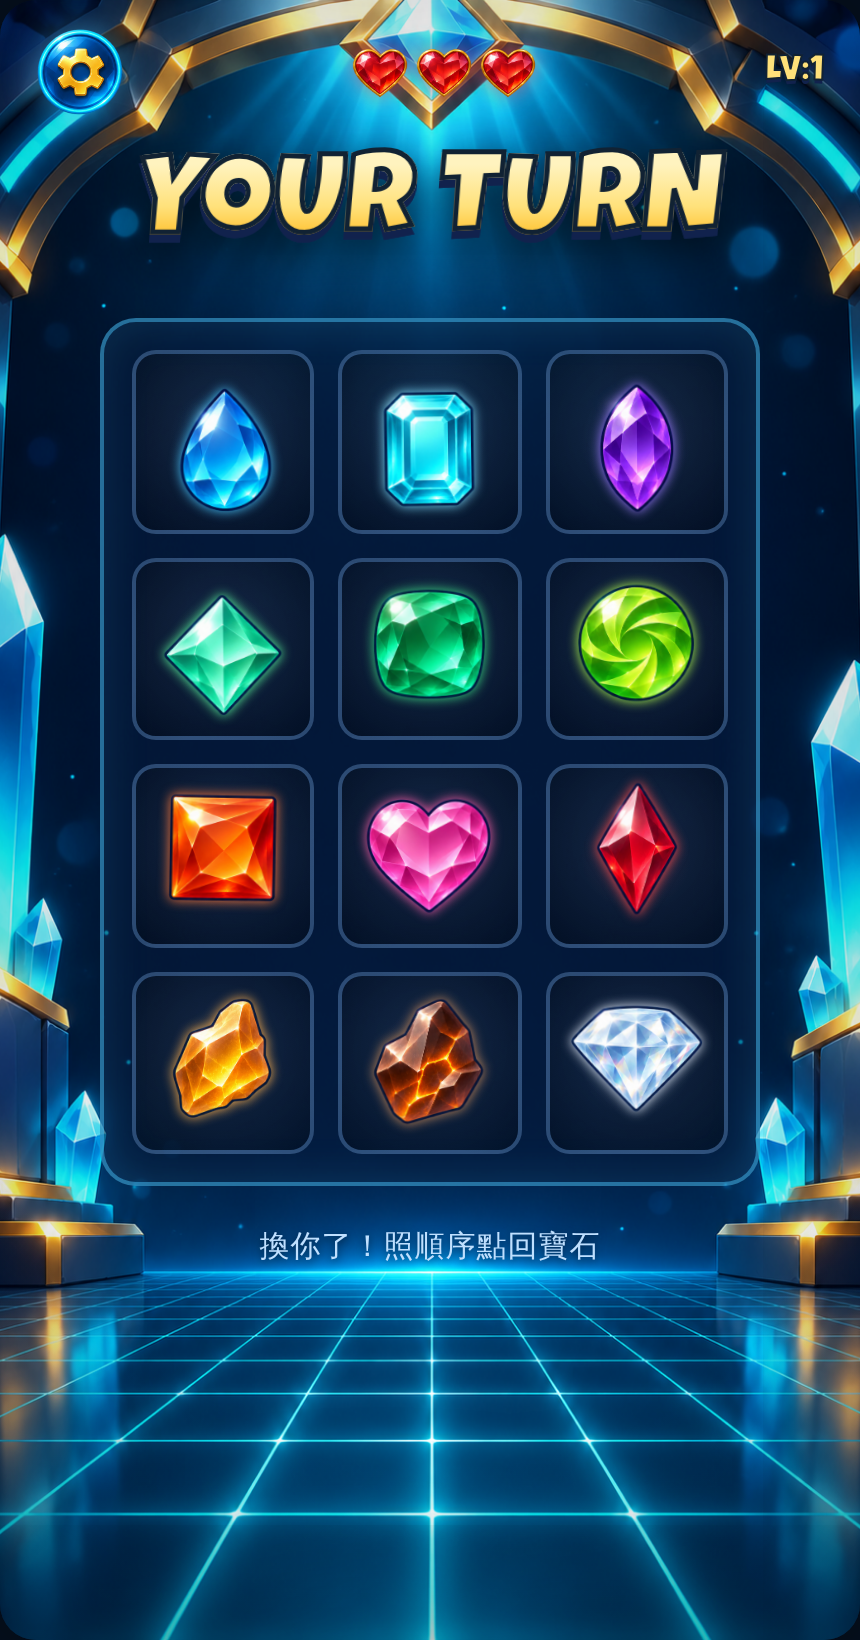
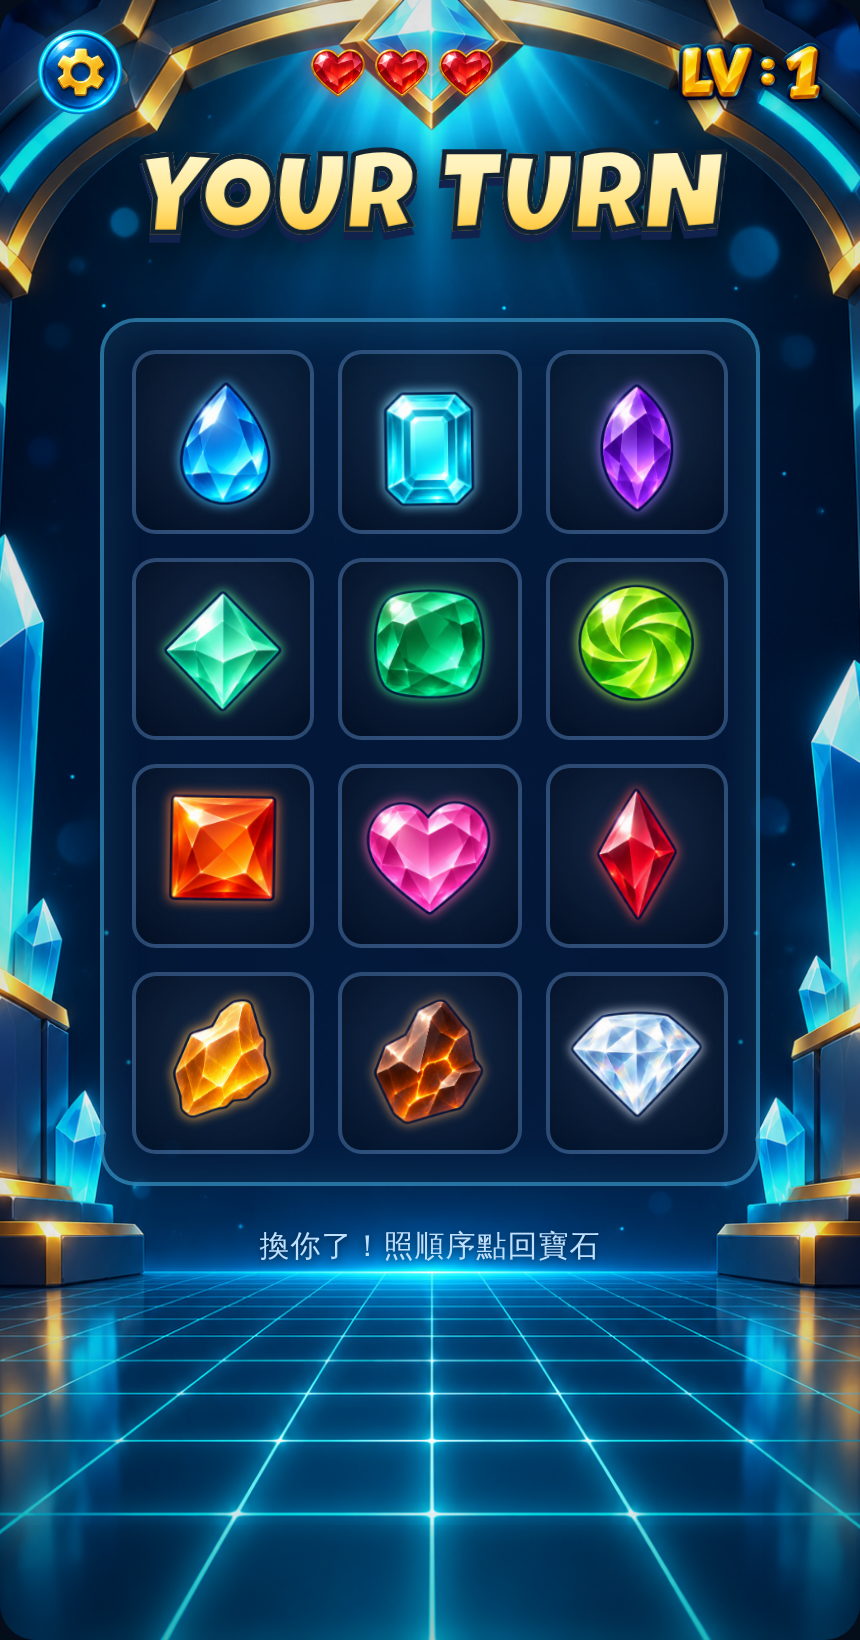
Wire LV counter to numbers_01 glyphs; add font to asset list
- Slice numbers_01 into digit/LV/colon PNGs; HUD LV now renders as
  gold number images instead of web font
- Add 字型 font_01 (A-Z / a-z / symbols) and cohesion principle to
  ASSETS.md and ASSETS_TEMPLATE.md

Claude-Session: https://claude.ai/code/session_01WnPXDfC2E1HsxAHMdYXNWW

diff --git a/01_memory_crash/js/game.js b/01_memory_crash/js/game.js
@@ -48,7 +48,13 @@
   const board       = $("#board");
   const hud         = $("#hud");
   const heartsWrap  = $("#hearts");
-  const levelNum    = $("#levelNum");
+  const levelTag    = $("#levelTag");
+  const NUMDIR = "assets/source/pic/numbers/";
+  function lvHTML(n) {
+    let h = `<img class="nimg" src="${NUMDIR}lv.png" alt="LV"><img class="nimg ncolon" src="${NUMDIR}colon.png" alt=":">`;
+    for (const d of String(n)) h += `<img class="nimg" src="${NUMDIR}n${d}.png" alt="${d}">`;
+    return h;
+  }
   const perfectBan  = $("#perfectBanner");
   const statusText  = $("#statusText");
   const modal       = $("#modal");
@@ -191,7 +197,7 @@
   }
 
   function nextLevel(fresh) {
-    levelNum.textContent = state.level;
+    levelTag.innerHTML = lvHTML(state.level);
     if (fresh) state.sequence = generateSequence();
     state.playerStep = 0;
     state.accepting = false;

diff --git a/01_memory_crash/css/style.css b/01_memory_crash/css/style.css
@@ -218,11 +218,11 @@ html, body {
 }
 
 .level-tag {
-  font-family: "Luckiest Guy", Impact, sans-serif;
-  font-size: 18px; color: var(--gold-1);
-  -webkit-text-stroke: 1px #123;
-  text-shadow: 0 2px 0 #11224d;
+  display: flex; align-items: center; gap: 1px; height: 30px;
+  filter: drop-shadow(0 2px 3px rgba(0,0,0,.5));
 }
+.level-tag .nimg { height: 100%; width: auto; display: block; }
+.level-tag .ncolon { height: 55%; align-self: center; margin: 0 1px; }
 
 /* ============================================================
    遊戲橫幅（READY / PERFECT / MISS）

diff --git a/01_memory_crash/index.html b/01_memory_crash/index.html
@@ -24,7 +24,7 @@
       <div class="hearts" id="hearts">
         <span class="heart">♥</span><span class="heart">♥</span><span class="heart">♥</span>
       </div>
-      <div class="level-tag">LV:<span id="levelNum">1</span></div>
+      <div class="level-tag" id="levelTag"></div>
     </header>
 
     <!-- ========== 標題畫面 ========== -->

diff --git a/01_memory_crash/assets/ASSETS.md b/01_memory_crash/assets/ASSETS.md
@@ -16,7 +16,8 @@ assets/source/
 │   ├── titles/      titles_01.png          # 主視覺文字（word-art）
 │   ├── ui/          ui_01.png
 │   ├── gems/        gems_01.png
-│   ├── numbers/     numbers_01.png
+│   ├── numbers/     numbers_01.png         # 數字 0–9 + LV + :
+│   ├── font/        font_01.png            # 字型 A–Z / a–z / 符號
 │   ├── fx/          fx_01.png
 │   └── howto/       howto_01.png           # 教學步驟圖示
 ├── music/           bgm_01.mp3 · bgm_02.mp3     # 背景音樂
@@ -129,15 +130,29 @@ lighting. Colors in reading order:
 High detail. 2048x1536 PNG, transparent.
 ```
 
-## 6. 數字　`pic/numbers/`
+## 6. 數字 / 字型　`pic/numbers/` · `pic/font/`
+> 遊戲要有**一套主體一致的字型**（與 LOGO 同風格）。數字給分數/LV；字母+符號給一般文字。
+
 | 檔案 | 用途 | 尺寸 | 背景 |
 |------|------|------|------|
-| `numbers_01.png` | 數字 0–9 ＋「LV」＋「:」 | 2048×512 | 去背 |
+| `numbers_01.png` | 數字 0–9 ＋「LV」＋「:」（分數/等級用） | 2048×512 | 去背 |
+| `font_01.png` | 字型：A–Z、a–z、常用符號（一般文字用） | 2048×2048 | 去背 |
+
+**numbers_01**
 ```
 sprite sheet of numbers 0 1 2 3 4 5 6 7 8 9 plus "LV" and a colon ":", chunky cartoon 3D
 gold lettering with thick dark-blue outline, bevel and glossy highlights, each character in
 its own equal cell, evenly spaced in a single row, clear gaps, transparent background. 2048x512 PNG.
 ```
+**font_01**（整套字型，與數字/LOGO 同一主體風格）
+```
+bitmap font sprite sheet, SAME style as the game logo/numbers: chunky cartoon 3D glossy GOLD
+letters with thick dark-blue outline, bevel and highlights. Include uppercase A-Z, lowercase
+a-z, and symbols: . , : ; ! ? ' " - + / % & ( ) and space. Each glyph centered in its own
+equal cell, arranged in a neat grid, evenly spaced with clear gaps, consistent baseline and
+size, transparent background, not overlapping. High detail. 2048x2048 PNG, transparent.
+```
+> 註：字母/符號須**等高、同基線、同風格**，方便當 bitmap 字型逐字拼排。
 
 ## 7. 特效　`pic/fx/`（選做）
 | 檔案 | 用途 | 尺寸 | 背景 |
@@ -205,7 +220,8 @@ still bright and electronic, seamless loop, no vocals.
 - [ ] `pic/titles/titles_01.png`（主視覺文字）
 - [ ] `pic/ui/ui_01.png`（含 **❤ 愛心滿/空**、⚙ 齒輪、按鈕三態、面板框、格子框）
 - [ ] `pic/gems/gems_01.png`
-- [ ] `pic/numbers/numbers_01.png`
+- [ ] `pic/numbers/numbers_01.png`（數字，已接 LV）
+- [ ] `pic/font/font_01.png`（字型 A–Z/a–z/符號）
 - [ ] `music/bgm_01.mp3`
 - [ ] `sfx/sfx_01.mp3` … `sfx_05.mp3`
 - [ ] `pic/branding/icon_01.png`

diff --git a/ASSETS_TEMPLATE.md b/ASSETS_TEMPLATE.md
@@ -6,7 +6,9 @@
 > ⭐ **完整性原則（最高原則）**：遊戲內**所有**視覺/音訊元素，凡以 CSS/placeholder 暫代、
 > 需更高質感者，一律列入本表交外部 AI 美化，**不遺漏**。新增設計需求也直接補進本表。
 > 包含但不限於：背景、Logo、**主視覺文字(word-art)**、按鈕、面板、**愛心/生命**、圖示(齒輪…)、
-> 格子/容器框、核心元件、數字、**教學圖示**、特效、音樂、音效。
+> 格子/容器框、核心元件、數字、**字型(A–Z/符號)**、**教學圖示**、特效、音樂、音效。
+>
+> 🎯 **主體性原則**：整套素材（字型、配色、光影風格、音色）須統一協調，成為一個完整作品。
 
 ## 📁 資料夾結構（媒體分類 + 編號）
 ```
@@ -17,7 +19,8 @@ assets/source/
 │   ├── titles/      titles_01.png      # 主視覺文字 word-art
 │   ├── ui/          ui_01.png          # 按鈕/面板/愛心/圖示/格子框
 │   ├── pieces/      pieces_01.png      # 核心玩法物件（寶石/棋子/方塊/角色…）
-│   ├── numbers/     numbers_01.png
+│   ├── numbers/     numbers_01.png     # 數字 0–9 等
+│   ├── font/        font_01.png        # 字型 A–Z/a–z/符號
 │   ├── fx/          fx_01.png
 │   └── howto/       howto_01.png       # 教學步驟圖示
 ├── music/           bgm_01.mp3 …      # 背景音樂
@@ -65,10 +68,12 @@ assets/source/
 |------|------|------|------|--------|
 | `pieces_01.png` | 核心物件系列 | 2048×1536 | 去背 | `…` |
 
-## 6. 數字　`pic/numbers/`
+## 6. 數字 / 字型　`pic/numbers/` · `pic/font/`
+> **主體性**：字型要與 LOGO 同一風格，整套等高同基線，數字給分數、字母+符號給一般文字。
 | 檔案 | 用途 | 尺寸 | 背景 | 提示詞 |
 |------|------|------|------|--------|
 | `numbers_01.png` | 數字 0–9（＋符號） | 2048×512 | 去背 | `…` |
+| `font_01.png` | 字型 A–Z / a–z / 常用符號 | 2048×2048 | 去背 | `…` |
 
 ## 7. 特效　`pic/fx/`
 | 檔案 | 用途 | 規格 | 背景 | 提示詞 |
